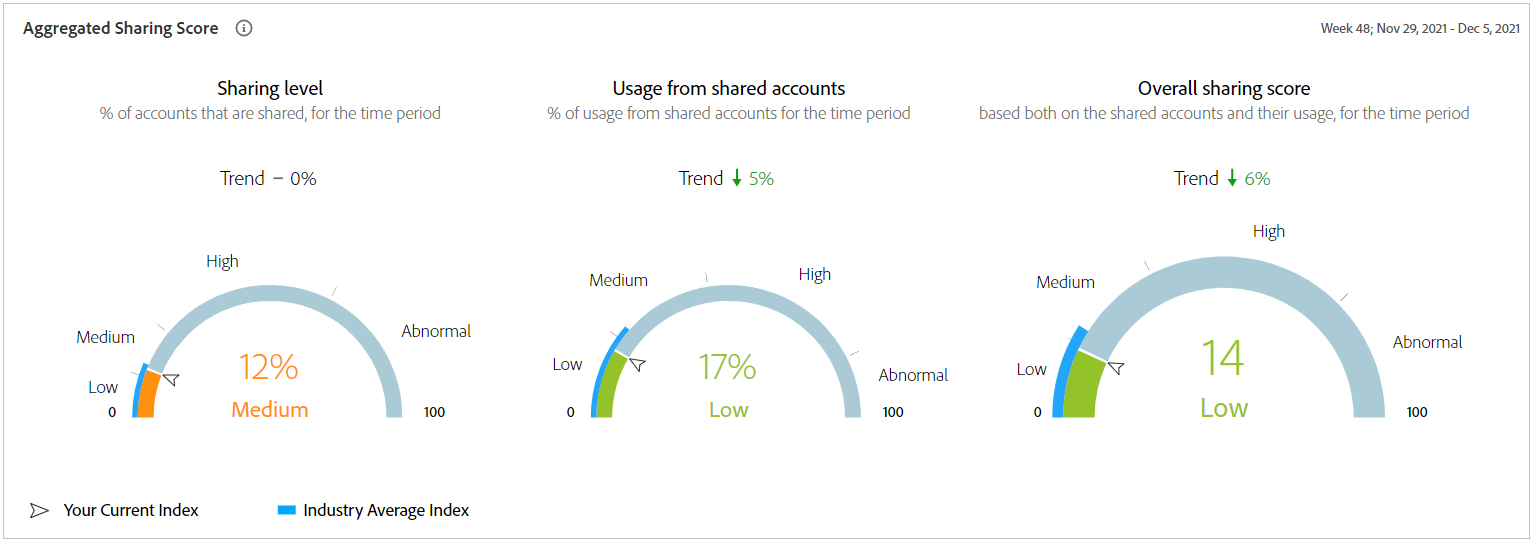
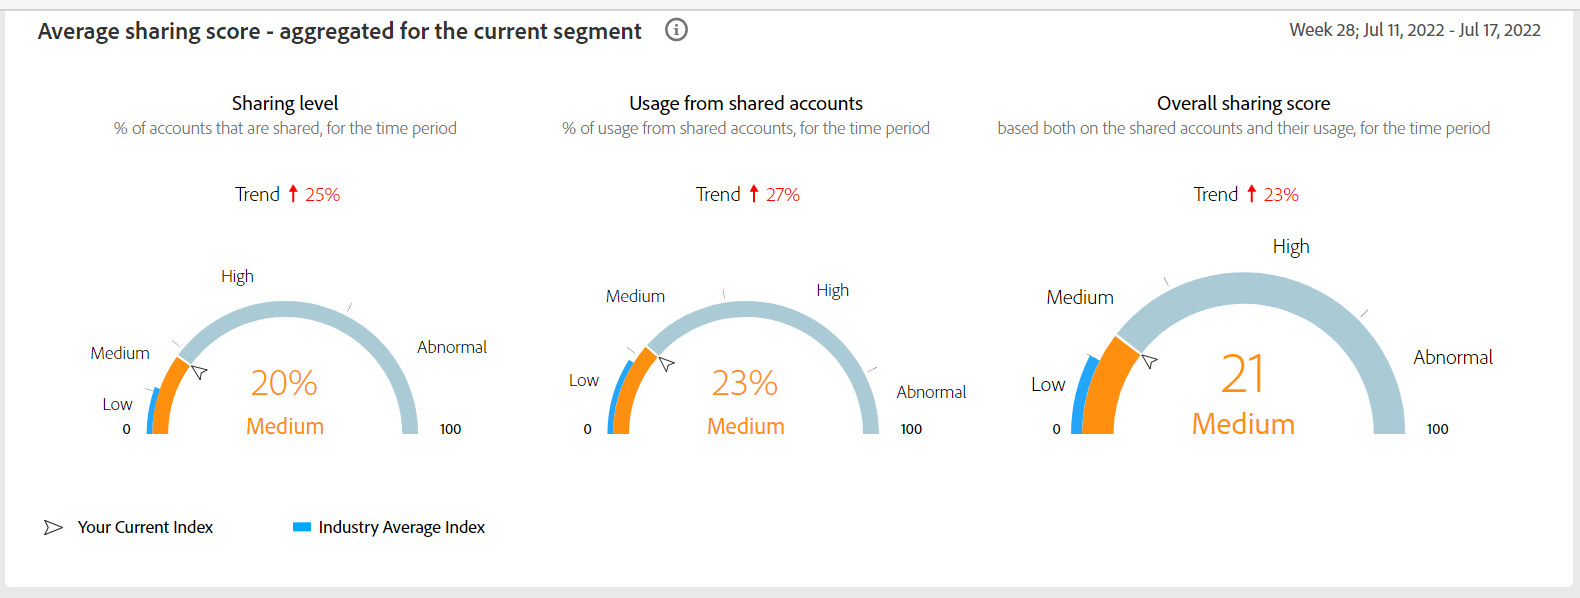
updated an image

diff --git a/help/AccountIQ/dashboard.md b/help/AccountIQ/dashboard.md
@@ -9,13 +9,15 @@ The Dashboard summarizes and aggregates data in a collection of graphs and repor
 
 ![dashboard of account IQ](assets/dashboard-capture.png)
 
-## Aggregated Sharing Score {#aggregated-sharing}
+## Average sharing score - aggregated for the current segment {#aggregated-sharing}
 
 The Aggregated Sharing Score panel provides a top line readout summarizing the quantity and impact of sharing in terms of accounts and streaming volume.
 
 The values help you understand the magnitude of credential sharing by your subscribers, hence providing a measure of the need to act upon it.
 
 ![](assets/aggregate-sharing-score.png)
+
+![](assets/aggregate-sharing-score.svg)
 
 The following three metrics are components of the Aggregate Sharing Score.
 
